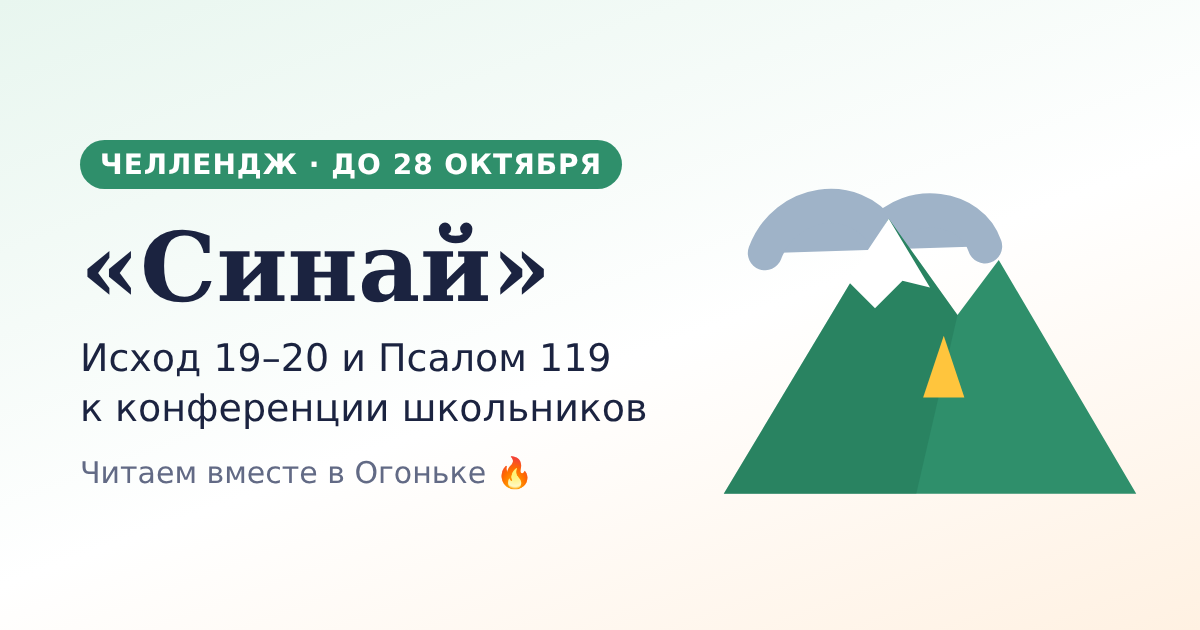
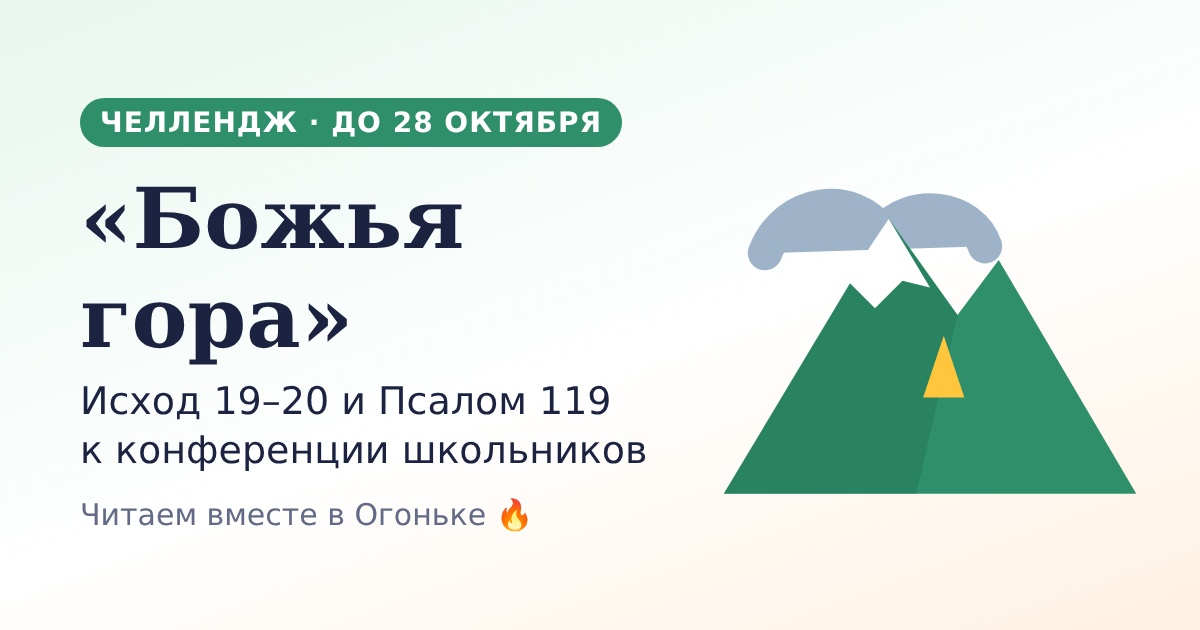
Add files via upload

Changed region(s): [[0.0617, 0.1508, 0.555, 0.8444]]

diff --git a/index.html b/index.html
@@ -1081,6 +1081,7 @@ body.fseg-conf #friendsCard,body.fseg-conf #friendsEmpty{display:none!important}
 .cshare{display:flex;flex-direction:column;gap:6px;margin-top:8px;padding:12px;border-radius:14px;background:color-mix(in srgb,#2f8f6b 10%,var(--surface));border:1.5px dashed #2f8f6b}
 .cshare b{font-size:.98rem}.cshare span{font-size:.82rem;color:var(--muted)}
 .cpath .pname{font-size:11px;font-weight:700;fill:var(--ink);paint-order:stroke;stroke:var(--bg);stroke-width:3px}.cpath .pname.small{font-size:9.5px}
+#challengesCard .chitem{flex-wrap:wrap}#challengesCard .chtx{flex:1 1 160px}#challengesCard .chtx b{white-space:nowrap}#challengesCard .chitem .cbtn.chgo{flex:1 1 100%}
 </style>
 
 <div class="app" id="app">
@@ -3134,7 +3135,7 @@ function confRenderCard(){
   const hero=el("div","chero");hero.insertAdjacentHTML("afterbegin",mountSvg);
   const tt=el("div");tt.append(el("h2",null,CONF.name),el("div","csub",CONF.dates+" · прочитать до 28 октября"));hero.append(tt);
   const n=confDaysLeft(),cnt=el("div","ccount");cnt.append(el("b",null,String(n)),el("span",null,plural(n,"день","дня","дней")+" осталось"));hero.append(cnt);
-  card.prepend(el("div","chtag","Челлендж «Синай» · временный"));card.append(hero);const ts=confTeamStrip();if(ts)card.append(ts);
+  card.prepend(el("div","chtag","Челлендж «Божья гора» · временный"));card.append(hero);const ts=confTeamStrip();if(ts)card.append(ts);
   if(!c.joined){
     const per=Math.round(CONF_VERSES/Math.max(1,Math.min(n,CONF_UNITS.length)));
     card.append(el("p","cnote","Исход 19–20 и Псалом 119. Начните сегодня — это "+n+" "+plural(n,"день","дня","дней")+" примерно по "+per+" "+plural(per,"стиху","стиха","стихов")+". Чем позже присоединитесь, тем больше чтения в день: расписание подстраивается под вас."));
@@ -3618,7 +3619,7 @@ function applyAppMode(){
     const mk=(m,icon,t,sub)=>{const b=el("button","apptab"+((m==="conf")===conf?" on":""));b.type="button";b.setAttribute("role","tab");b.setAttribute("aria-selected",String((m==="conf")===conf));
       b.append(icoEl(icon));const tx=el("span","att");tx.append(el("b",null,t),el("i",null,sub));b.append(tx);b.addEventListener("click",()=>{if(appMode()!==m)setAppMode(m)});return b};
     const c=confSt(),t=today(),need=!c.joined||!c.log.some(x=>x.d===t)||(NET&&myTeams().some(x=>{const d=TEAMS[x.code];return d&&d.g&&d.g.status==="play"&&tCur(d.g)===NET.uid}))||TINV.length>0;
-    const cb=mk("conf","peak","Челлендж","«Синай»");if(need&&!conf)cb.append(el("em","atdot"));
+    const cb=mk("conf","peak","Челлендж","«Божья гора»");if(need&&!conf)cb.append(el("em","atdot"));
     nav.append(mk("spb","book","Основное расписание",SCHED.name),cb)}
   try{renderPath()}catch(e){}confRenderCard();try{renderChallenges()}catch(e){console.warn(e)}try{renderChPromo()}catch(e){console.warn(e)}try{applyPage()}catch(e){console.warn(e)}
 }
@@ -3641,7 +3642,7 @@ function renderConfPath(){
   const W=Math.max(300,Math.min(480,$("pathBox").clientWidth||340)),N=MEM_SETS.length,GAP=70,TOP=130,H=TOP+N*GAP+50,cx=W/2,A=Math.min(105,W*.27);
   // плавная волна снизу вверх, как на основной тропинке
   const X=t=>cx+A*Math.sin(t*Math.PI/3.5),Y=t=>H-50-t*GAP,pos=i=>({x:X(i),y:Y(i)});
-  const svg=sv("svg",{viewBox:"0 0 "+W+" "+H,width:Math.round(W*pathZoom),height:Math.round(H*pathZoom),class:"pathsvg cpath",role:"img","aria-label":"Тропинка челленджа «Синай»"});
+  const svg=sv("svg",{viewBox:"0 0 "+W+" "+H,width:Math.round(W*pathZoom),height:Math.round(H*pathZoom),class:"pathsvg cpath",role:"img","aria-label":"Тропинка челленджа «Божья гора»"});
   const curve=(t0,t1)=>{let d="";for(let t=t0;t<=t1+1e-6;t+=.1)d+=(d?"L":"M")+X(t).toFixed(1)+" "+Y(t).toFixed(1);return d};
   const fp={x:X(N),y:Y(N)-34};
   svg.append(sv("path",{d:curve(-0.6,N-1)+"L"+fp.x.toFixed(1)+" "+(fp.y+30).toFixed(1),fill:"none",stroke:"var(--trail)","stroke-width":8,"stroke-linecap":"round","stroke-linejoin":"round"}));
@@ -3686,7 +3687,7 @@ function renderConfPath(){
 
 /* ---------- Воодушевление друзей в челлендже: до 5 друзей в день, можно всех сразу ---------- */
 const CONF_CHEERS=["⛰ Давай поднимемся на Синай — сегодня вместе!","📖 Твой отрывок ждёт тебя!","🔥 Я уже прочитал(а) — теперь твоя очередь!","🪔 «Слово Твоё — светильник ноге моей». Почитаем?","🍯 Слаще мёда! Загляни в сегодняшний отрывок","🙏 Молюсь за тебя — до конференции совсем немного!"];
-const CONF_JOIN_MSG=6; // «Присоединяйся к челленджу «Синай»!»
+const CONF_JOIN_MSG=6; // «Присоединяйся к челленджу «Божья гора»!»
 const CHEER_LIMIT=5;
 const cheerLeft=()=>NET&&NET.cheerLeft?NET.cheerLeft():0;
 const cheerSent=u=>!!(NET&&NET.cheerSent&&NET.cheerSent(u));
@@ -3726,7 +3727,7 @@ function confFriendsList(L,full){
       const b=el("button","cheerb"+(sent?" sent":""),sent?"Позвали ✓":"⛰ Позвать");b.type="button";b.disabled=sent;
       if(!sent)b.addEventListener("click",async e=>{e.stopPropagation();b.disabled=true;if(await NET.cheer(f.id,CONF_JOIN_MSG,true)){b.textContent="Позвали ✓";b.classList.add("sent");toast("Приглашение отправлено")}else b.disabled=false});
       row.append(b);row.addEventListener("click",()=>window.Ogonek&&window.Ogonek.onPersonClick&&window.Ogonek.onPersonClick(f.id));L.append(row)})}
-  const share=el("div","cshare");share.append(el("b",null,"Пригласить в челлендж по ссылке"),el("span",null,"Друг откроет Огонёк сразу с челленджем «Синай» и станет вашим другом."));
+  const share=el("div","cshare");share.append(el("b",null,"Пригласить в челлендж по ссылке"),el("span",null,"Друг откроет Огонёк сразу с челленджем «Божья гора» и станет вашим другом."));
   const sb=el("button","cbtn",NET?"Скопировать приглашение":"Войдите, чтобы пригласить");sb.type="button";sb.disabled=!NET;
   sb.addEventListener("click",async()=>{const txt=confInviteText(NET.code());let ok=false;
     try{if(navigator.share){await navigator.share({text:txt});ok=true}}catch(e){if(e&&e.name==="AbortError")return}
@@ -3736,10 +3737,10 @@ function confFriendsList(L,full){
   share.append(sb);L.append(share);
 }
 function confInviteUrl(code){return location.origin+location.pathname.replace(/[^/]*$/,"")+"sinai.html"+(code?"?add="+code:"")}
-function confInviteText(code){return "Присоединяйся к челленджу «Синай» в Огоньке! ⛰\nК конференции школьников (29 октября – 1 ноября) читаем Исход 19–20 и Псалом 119 — понемногу каждый день до 28 октября. Вопросы, игры и восхождение на Синай вместе с друзьями."+(code?"\nМой код: "+code:"")+"\n"+confInviteUrl(code)}
+function confInviteText(code){return "Присоединяйся к челленджу «Божья гора» в Огоньке! ⛰\nК конференции школьников (29 октября – 1 ноября) читаем Исход 19–20 и Псалом 119 — понемногу каждый день до 28 октября. Вопросы, игры и восхождение на Синай вместе с друзьями."+(code?"\nМой код: "+code:"")+"\n"+confInviteUrl(code)}
 window.confInviteText=code=>{const t=tracks();return t.conf&&!t.spb&&!confClosed()?confInviteText(code):null};
 window.confGo=join=>{if(join&&!tracks().conf){confJoin();setTrack("conf",true)}if(tracks().conf){try{localStorage.setItem("ogonek-app-mode","conf")}catch(e){}applyAppMode();setPage("home")}};
-window.confCheers={list:CONF_CHEERS.concat(["⛰ Присоединяйся к челленджу «Синай»! Читаем вместе к конференции"])};
+window.confCheers={list:CONF_CHEERS.concat(["⛰ Присоединяйся к челленджу «Божья гора»! Читаем вместе к конференции"])};
 /* вкладка «Друзья»: «По расписанию» | «В челлендже» */
 function confSeg(){const t=tracks();if(!t.conf||confClosed())return "spb";if(!t.spb)return "conf";try{return sessionStorage.getItem("ogonek-fseg")||"spb"}catch(e){return "spb"}}
 function confSegSet(v){try{sessionStorage.setItem("ogonek-fseg",v)}catch(e){}renderConfFriendsCard()}
@@ -3751,7 +3752,7 @@ function renderConfFriendsCard(){
   seg.hidden=!both;seg.textContent="";
   [["spb","book","По расписанию"],["conf","peak","В челлендже"]].forEach(([v,ic,l])=>{const b=el("button",v===s?"on":"");b.type="button";b.append(icoEl(ic),el("span",null,l));b.addEventListener("click",()=>confSegSet(v));seg.append(b)});
   const conf=s==="conf";document.body.classList.toggle("fseg-conf",conf);card.hidden=!conf;
-  if(conf){card.textContent="";card.append(el("h2",null,"Друзья в челлендже «Синай»"));confFriendsList(card,true)}
+  if(conf){card.textContent="";card.append(el("h2",null,"Друзья в челлендже «Божья гора»"));confFriendsList(card,true)}
 }
 
 /* ---------- Что я читаю: «Церковь в Санкт-Петербурге» и/или «Конференция» ----------
@@ -3780,7 +3781,7 @@ function confTracksBlock(closePlans){
     setTrack("spb",!now.spb);closePlans();toast(now.spb?"Основное расписание выключено. Прочитанное сохранено":"Основное расписание включено")});
   box.append(b);
   const closed=confClosed(),c2=el("button","trkitem"+(t.conf&&!closed?" on":""));c2.type="button";c2.disabled=closed;c2.setAttribute("role","switch");c2.setAttribute("aria-checked",String(t.conf&&!closed));
-  c2.append(icoEl("peak"));const tx2=el("span","ptxt");tx2.append(el("b",null,"Челлендж «Синай»"),el("span",null,closed?"Завершён 28 октября — в архиве":t.conf?"Вы участвуете · до 28 октября":"Исход 19–20 и Псалом 119 · до 28 октября"));c2.append(tx2,el("span","trksw"));
+  c2.append(icoEl("peak"));const tx2=el("span","ptxt");tx2.append(el("b",null,"Челлендж «Божья гора»"),el("span",null,closed?"Завершён 28 октября — в архиве":t.conf?"Вы участвуете · до 28 октября":"Исход 19–20 и Псалом 119 · до 28 октября"));c2.append(tx2,el("span","trksw"));
   c2.addEventListener("click",()=>{const now=tracks();
     if(!now.conf){confJoin();setTrack("conf",true);closePlans();toast("Вы в челлендже! Переключайтесь вверху на главной");return}
     if(!now.spb){toast("Нельзя выключить: тогда нечего будет читать. Сначала включите основное расписание");return}
@@ -3791,7 +3792,7 @@ function confTracksBlock(closePlans){
 }
 
 /* ---------- «Челленджи» — отдельно от расписаний (вкладка «План») ----------
-   Челлендж — временное событие: сейчас «Синай» к конференции школьников. Присоединился — на главной
+   Челлендж — временное событие: сейчас «Божья гора» к конференции школьников. Присоединился — на главной
    появляется переключатель «Основное расписание | Челлендж». Закончился — уходит в «Завершённые». */
 function renderChallenges(){
   let card=$("challengesCard");
@@ -3805,7 +3806,7 @@ function renderChallenges(){
   card.append(el("div","chh","Челленджи · временные задания"));
   const item=el("div","chitem"+(on?" on":"")+(closed?" past":""));
   const r=confRead(),pct=Math.round(CONF_UNITS.filter(u=>r.has(u.i)).reduce((s,u)=>s+u.w,0)/CONF_VERSES*100),n=confDaysLeft();
-  const tx=el("div","chtx");tx.append(el("b",null,"«Синай»"),el("span",null,closed?(c.joined?"Завершён · ваш итог "+pct+"%":"Завершён 28 октября"):"Исход 19–20, Псалом 119 · "+(on&&c.joined?pct+"% · ":"")+"ещё "+n+" "+plural(n,"день","дня","дней")));
+  const tx=el("div","chtx");tx.append(el("b",null,"«Божья гора»"),el("span",null,closed?(c.joined?"Завершён · ваш итог "+pct+"%":"Завершён 28 октября"):"Исход 19–20, Псалом 119 · "+(on&&c.joined?pct+"% · ":"")+"ещё "+n+" "+plural(n,"день","дня","дней")));
   const lab=el("span","chlab",closed?"завершён":on?"вы участвуете":"идёт сейчас");
   const btn=el("button",on||closed?"btn":"cbtn chgo",closed?"Архив":on?"Открыть":"Присоединиться");btn.type="button";
   btn.addEventListener("click",()=>{if(closed){openConf("read");return}if(!on){confJoin();setAppMode("conf");setPage("home");toast("Вы в челлендже! Переключайтесь вверху на главной");return}setAppMode("conf");setPage("home")});
@@ -3821,7 +3822,7 @@ function renderChPromo(){
   let p=$("chPromo");const hide=(()=>{try{return localStorage.getItem("ogonek-chpromo-x")==="1"}catch(e){return false}})();
   if(!p){const tc=$("testaments")&&$("testaments").closest(".card");if(!tc)return;p=el("section","chpromo");p.id="chPromo";p.dataset.page="home";p.dataset.ch="1";tc.after(p)}
   const show=!confClosed()&&!tracks().conf&&!hide;p.hidden=!show;if(!show)return;p.textContent="";
-  const go=el("button","chpgo");go.type="button";go.append(icoEl("mount"));const tx=el("span","chptx");tx.append(el("i",null,"Сейчас идёт челлендж"),el("b",null,"«Синай» — к конференции школьников"),el("span",null,"до 28 октября · "+confDaysLeft()+" "+plural(confDaysLeft(),"день","дня","дней")));go.append(tx,el("span","chparr","›"));
+  const go=el("button","chpgo");go.type="button";go.append(icoEl("mount"));const tx=el("span","chptx");tx.append(el("i",null,"Сейчас идёт челлендж"),el("b",null,"«Божья гора» — к конференции школьников"),el("span",null,"до 28 октября · "+confDaysLeft()+" "+plural(confDaysLeft(),"день","дня","дней")));go.append(tx,el("span","chparr","›"));
   go.addEventListener("click",()=>window.confOpenChallenges());
   const x=el("button","chpx","×");x.type="button";x.setAttribute("aria-label","Скрыть");x.addEventListener("click",()=>{try{localStorage.setItem("ogonek-chpromo-x","1")}catch(e){}p.hidden=true});
   p.append(go,x);

diff --git a/auth.js b/auth.js
@@ -242,10 +242,10 @@ async function main() {
       done: "Приглашение отправлено ✓", full: "Сегодня вы уже позвали друга", btn: "Позвать читать вместе",
       rule: () => "Позвать почитать вместе можно только одного друга в день — до того, как вы начнёте читать.",
       sent: "Приглашение отправлено! Начинайте читать", again: "Сегодня вы уже звали этого друга" },
-    // челлендж «Синай»: воодушевить до 5 друзей в день; последнее сообщение — позвать в челлендж
-    conf: { list: (window.confCheers && window.confCheers.list) || ["Давай поднимемся на Синай!"], limit: 5, key: "ogonek-conf-cheers", field: "confCheer", title: "Челлендж «Синай»", verb: "зовёт на Синай",
+    // челлендж «Божья гора»: воодушевить до 5 друзей в день; последнее сообщение — позвать в челлендж
+    conf: { list: (window.confCheers && window.confCheers.list) || ["Давай поднимемся на Синай!"], limit: 5, key: "ogonek-conf-cheers", field: "confCheer", title: "Челлендж «Божья гора»", verb: "зовёт на Синай",
       done: "Воодушевили ✓", full: "Сегодня вы уже воодушевили пятерых", btn: "Воодушевить", rule: () => "", sent: "Отправлено!", again: "Сегодня вы уже писали этому другу" },
-    confjoin: { list: (window.confCheers && window.confCheers.list) || [], limit: 99, key: "ogonek-conf-join", field: "confJoin", title: "Челлендж «Синай»", verb: "зовёт в челлендж «Синай»",
+    confjoin: { list: (window.confCheers && window.confCheers.list) || [], limit: 99, key: "ogonek-conf-join", field: "confJoin", title: "Челлендж «Божья гора»", verb: "зовёт в челлендж «Божья гора»",
       done: "Позвали ✓", full: "", btn: "Позвать", rule: () => "", sent: "Отправлено!", again: "Сегодня вы уже звали этого друга" }
   };
   const kindOf = (c) => (c && (c.kind === "invite" || c.kind === "conf" || c.kind === "confjoin") ? c.kind : "cheer");

diff --git a/sinai.html b/sinai.html
@@ -3,11 +3,11 @@
 <head>
 <meta charset="utf-8">
 <meta name="viewport" content="width=device-width,initial-scale=1">
-<title>Челлендж «Синай» — Огонёк</title>
+<title>Челлендж «Божья гора» — Огонёк</title>
 <meta name="description" content="К конференции школьников (29 октября – 1 ноября) читаем Исход 19–20 и Псалом 119 — понемногу каждый день до 28 октября. Вопросы, игры и восхождение на Синай вместе с друзьями.">
 <meta property="og:type" content="website">
 <meta property="og:site_name" content="Огонёк">
-<meta property="og:title" content="Челлендж «Синай» — читаем вместе к конференции">
+<meta property="og:title" content="Челлендж «Божья гора» — читаем вместе к конференции">
 <meta property="og:description" content="Исход 19–20 и Псалом 119 до 28 октября. Вопросы, игры и восхождение на Синай вместе с друзьями.">
 <meta property="og:image" content="https://illiadombrovskiy-commits.github.io/fire-app/sinai-og.png">
 <meta property="og:image:width" content="1200">
@@ -22,7 +22,7 @@ a{display:inline-block;margin-top:14px;padding:12px 20px;border-radius:12px;back
 </style>
 </head>
 <body>
-<div><div style="font-size:3rem">⛰</div><b>Челлендж «Синай»</b><br><span>Открываем Огонёк…</span><br><a id="go" href="./?conf=1">Открыть</a></div>
+<div><div style="font-size:3rem">⛰</div><b>Челлендж «Божья гора»</b><br><span>Открываем Огонёк…</span><br><a id="go" href="./?conf=1">Открыть</a></div>
 <script>
 // приглашение в челлендж: переходим в Огонёк с ?conf=1, сохраняя код друга (?add=) или команды (?team=)
 (function(){var q=location.search.replace(/^\?/,"");var url="./?conf=1"+(q?"&"+q:"");document.getElementById("go").href=url;location.replace(url)})();
